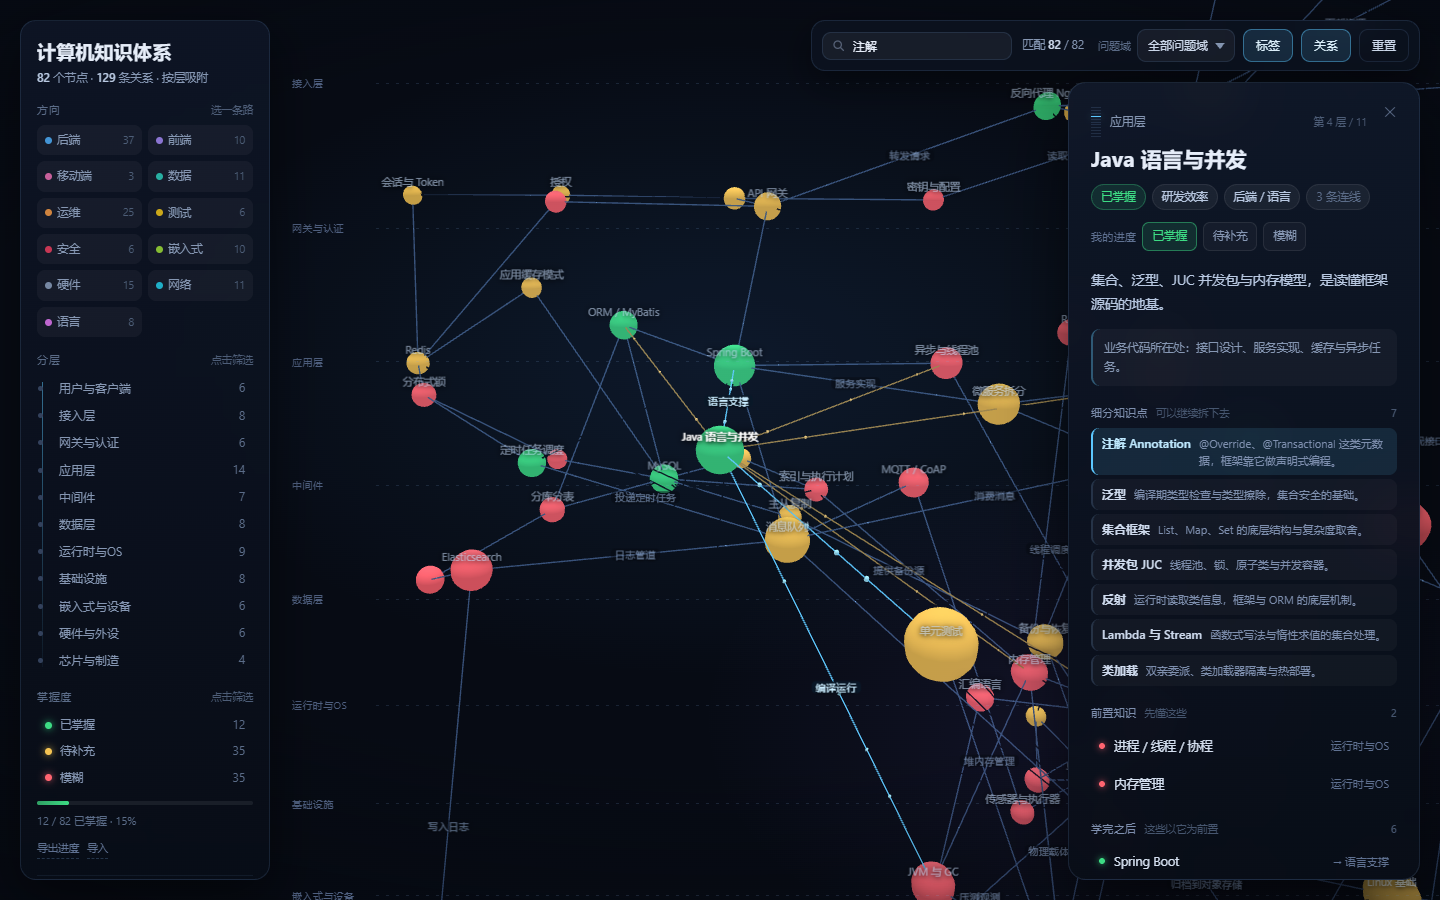
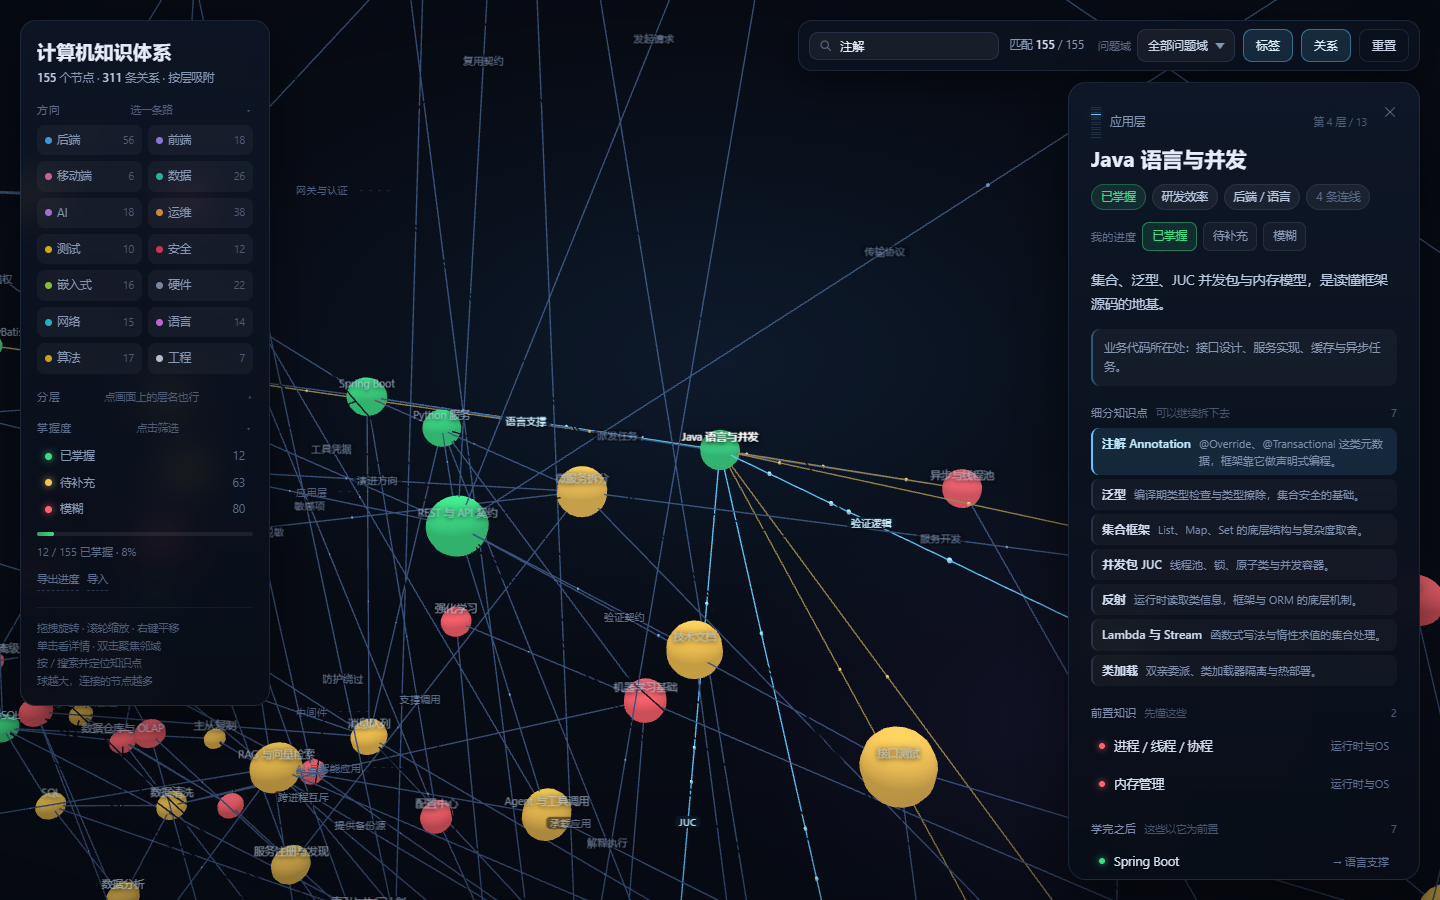
更新详情面板截图，README 增加面板示例

diff --git a/README.md b/README.md
@@ -72,6 +72,8 @@ node scripts/serve.mjs
 
 命中细分知识点时，详情面板会滚到那一条并高亮它，所以"这个点属于哪个模块"一眼就能看到。
 
+![搜索注解定位到 Java](docs/screenshot-panel.png)
+
 ## 交互
 
 | 操作 | 效果 |
